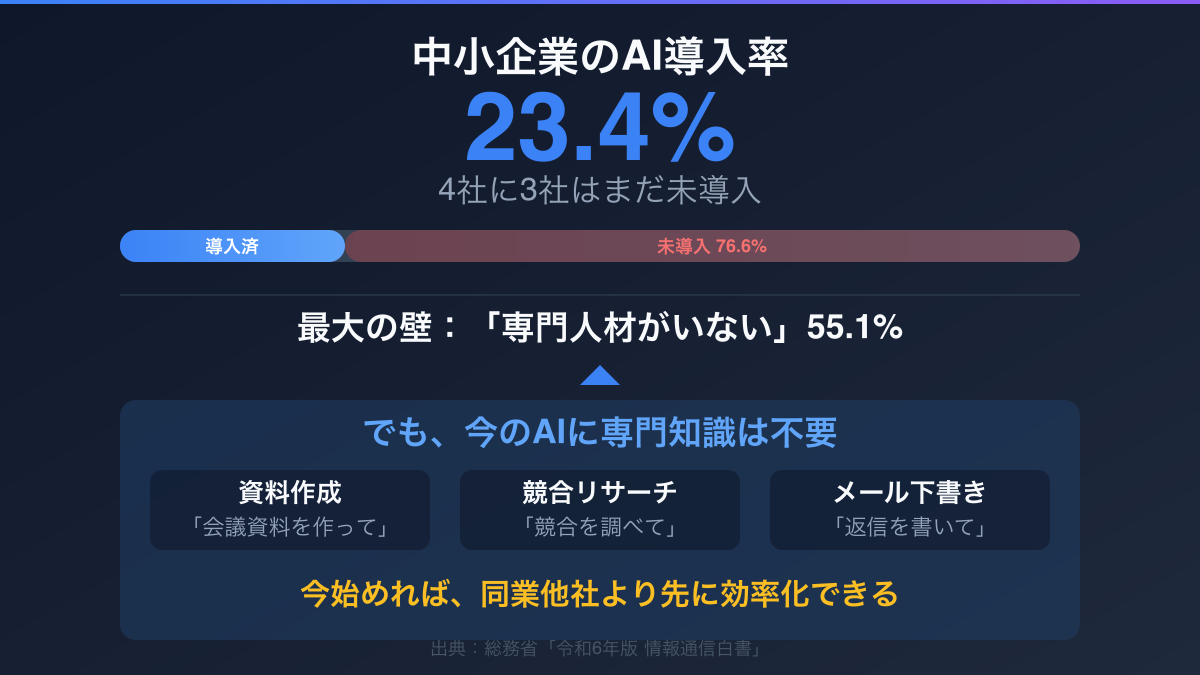
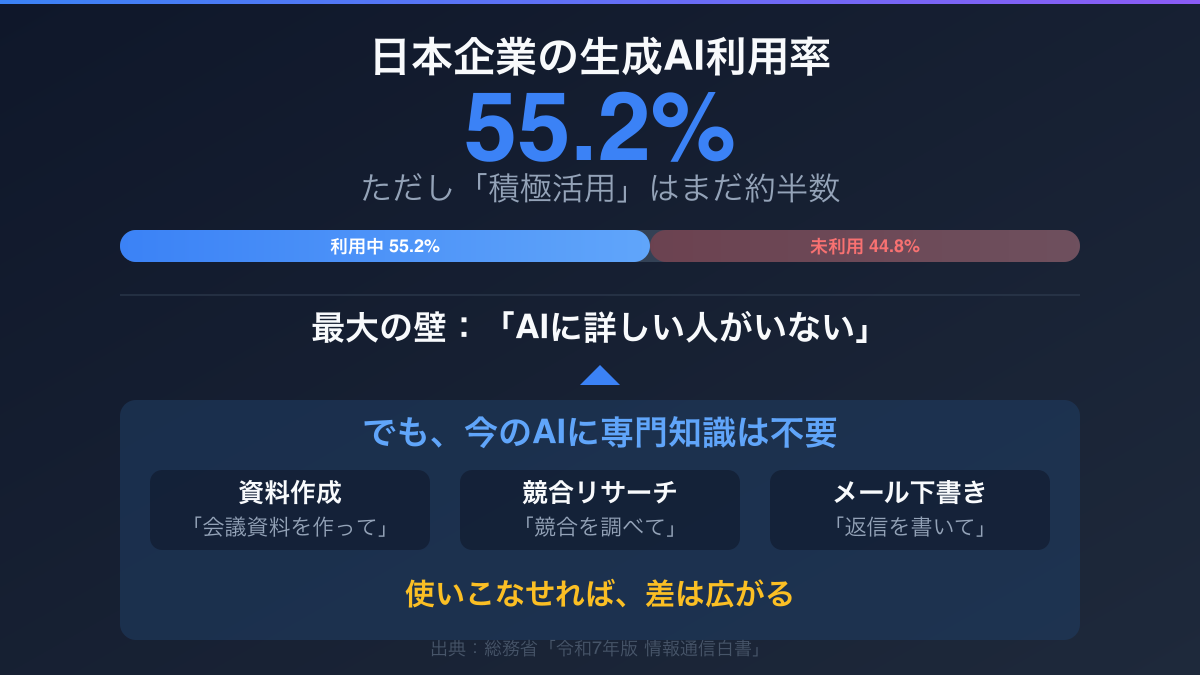
fix: 古いデータを最新に修正（X投稿テキスト・画像）
- AI利用率: 23.4%→55.2%（令和7年版情報通信白書）
- X投稿id:36テキスト・画像を最新データに更新

diff --git a/tasks/article-20260314-one-person-ai-team.html b/tasks/article-20260314-one-person-ai-team.html
@@ -7,7 +7,7 @@
 
 <p>「人が採れない」「求人を出しても応募が来ない」──中小企業の経営者なら、一度はこの壁にぶつかったことがあるのではないでしょうか。</p>
 
-<p>実は2024年、<strong>人手不足を原因とする倒産は過去最多の427件</strong>を記録しました（帝国データバンク調べ）。しかも、その<strong>77%が従業員10人未満</strong>の小規模企業です。つまり「うちは小さいから大丈夫」ではなく、<strong>小さいからこそ危ない</strong>のが今の現実です。</p>
+<p>実は2025年、<strong>人手不足を原因とする倒産は過去最多の427件</strong>を記録しました（帝国データバンク調べ）。前年（342件）から24.9%増で、3年連続の過去最多更新です。しかも、その大半が従業員10人未満の小規模企業です。つまり「うちは小さいから大丈夫」ではなく、<strong>小さいからこそ危ない</strong>のが今の現実です。</p>
 
 <p>この記事では、「人を雇う」でも「我慢して回す」でもない<strong>第3の選択肢──AIツールで「ひとりチーム」を作る方法</strong>を具体的に解説します。正社員1人分の年間コスト（約1,200万円）に対して、AIツールは年間5〜18万円。この圧倒的なコスト差を、経営にどう活かすかがポイントです。</p>
 
@@ -146,7 +146,7 @@
 </table>
 </div>
 
-<p>リクルートの調査では、中途採用1件あたりの平均コストは<strong>約103.3万円</strong>（2023年度実績）。さらに、せっかく採用しても<strong>3年以内の離職率は約3割</strong>というデータもあります。採用→教育→退職→再採用のサイクルは、中小企業にとって非常に大きな負担です。</p>
+<p>リクルートの調査では、中途採用1件あたりの平均コストは<strong>約103.3万円</strong>（就職みらい研究所「就職白書2020」）。さらに、せっかく採用しても<strong>3年以内の離職率は約3割</strong>というデータもあります。採用→教育→退職→再採用のサイクルは、中小企業にとって非常に大きな負担です。</p>
 
 <p>さらに見落としがちなのが<strong>「見えないコスト」</strong>です。新入社員が戦力になるまでの教育期間（一般的に3〜6ヶ月）は、教える側の社員の生産性も下がります。中小企業では「教える人」と「教わる人」が同じ部署にいることが多いため、この影響は大企業以上に大きいのが現実です。</p>
 
@@ -176,8 +176,8 @@
     </tr>
     <tr>
       <td>Canva Pro（デザイン）</td>
-      <td>約1,000円</td>
-      <td>約1.2万円</td>
+      <td>約1,180円</td>
+      <td>約1.4万円</td>
     </tr>
     <tr>
       <td>Zapier Starter（自動化）</td>
@@ -203,7 +203,7 @@
 
 <p>ここで見落としがちなのが、<strong>「AIを導入しないことで失うもの」</strong>です。</p>
 
-<p>パナソニック コネクトは、AIアシスタント「ConnectAI」を全社導入した結果、<strong>年間18.6万時間の業務時間を削減</strong>しました。これは約90人分の年間労働時間に相当します。大企業の事例ではありますが、「AIで効率化しなかった場合のコスト」を具体的に示す数字として参考になります。</p>
+<p>パナソニック コネクトは、AIアシスタント「ConnectAI」を全社導入した結果、2024年には<strong>年間44.8万時間の業務時間を削減</strong>しました（前年の18.6万時間から2.4倍に拡大）。これは約215人分の年間労働時間に相当します。大企業の事例ではありますが、「AIで効率化しなかった場合のコスト」を具体的に示す数字として参考になります。</p>
 
 <p>中小企業の場合、経営者自身がこれらの業務を兼任しているケースも多いでしょう。「社長が毎日メール返信と資料作成に追われて、営業や戦略立案に時間を割けない」──これはまさに「何もしないコスト」が発生している状態です。</p>
 
@@ -217,7 +217,7 @@
 
 <p>これらの業務をAIで半分にできるだけで、<strong>年間約250時間</strong>──つまり<strong>約1ヶ月半分の営業日</strong>が浮く計算です。その時間を営業や商品開発に使えたら？　この差は、年数が経つほど広がっていきます。</p>
 
-<p>総務省の調査によると、<strong>日本企業のAI導入率は23.4%</strong>（2024年）。アメリカの50.4%と比べると大きな差があります。そして導入しない最大の理由は「AIに詳しい人材がいない」（55.1%）。しかし今のAIツールは、<strong>専門知識がなくても使える</strong>レベルまで進化しています。「人材がいないから導入できない」ではなく、「人材がいないからこそAIを活用する」──この発想の転換が求められています。</p>
+<p>総務省の調査によると、<strong>日本企業の生成AI利用率は55.2%</strong>（令和7年版 情報通信白書）。前年の23.4%から急速に拡大しましたが、「積極的に活用する」と回答した企業はまだ約半数にとどまっています。そして導入しない理由として依然として多いのが「AIに詳しい人材がいない」という声です。しかし今のAIツールは、<strong>専門知識がなくても使える</strong>レベルまで進化しています。「人材がいないから導入できない」ではなく、「人材がいないからこそAIを活用する」──この発想の転換が求められています。</p>
 
 <figure>
   <img src="https://www.oishillc.jp/wp-content/themes/oishi-ai/assets/blog/20260314-one-person-ai-team/img-02-cost-comparison.webp"
@@ -352,7 +352,7 @@
 
 <p>AI機能を使えば、「この写真の背景を白にして」「この画像をポスターサイズに拡大して」「このテキストに合うイラストを生成して」といった編集も一瞬です。Instagram投稿、YouTube サムネイル、営業資料、名刺、イベントチラシなど、幅広い用途に対応しています。以前なら外注で数万円かかっていたデザイン作業が、月額1,000円で無制限にできるようになります。</p>
 
-<p><strong>料金</strong>：無料プランあり / Pro 約1,000円/月</p>
+<p><strong>料金</strong>：無料プランあり / Pro 月払い1,180円/月（年払い換算 約691円/月）</p>
 
 <h3>Zapier</h3>
 
@@ -616,10 +616,10 @@
 <h2 id="references">参照元</h2>
 
 <ol>
-  <li><a href="https://www.tdb.co.jp/report/economic/hitodebusoku/" target="_blank" rel="noopener noreferrer">帝国データバンク「人手不足倒産の動向調査（2024年）」</a></li>
-  <li><a href="https://www.soumu.go.jp/johotsusintokei/whitepaper/" target="_blank" rel="noopener noreferrer">総務省「令和6年版 情報通信白書」</a></li>
-  <li><a href="https://www.recruit.co.jp/newsroom/" target="_blank" rel="noopener noreferrer">リクルート「中途採用コスト調査（2023年度）」</a></li>
-  <li><a href="https://news.panasonic.com/jp/" target="_blank" rel="noopener noreferrer">パナソニック コネクト「ConnectAI 導入効果レポート」</a></li>
+  <li><a href="https://www.tdb.co.jp/report/economic/hitodebusoku/" target="_blank" rel="noopener noreferrer">帝国データバンク「人手不足倒産の動向調査（2025年）」</a></li>
+  <li><a href="https://www.soumu.go.jp/johotsusintokei/whitepaper/ja/r07/html/nd112220.html" target="_blank" rel="noopener noreferrer">総務省「令和7年版 情報通信白書」</a></li>
+  <li><a href="https://www.recruit.co.jp/newsroom/" target="_blank" rel="noopener noreferrer">リクルート 就職みらい研究所「就職白書2020」（中途採用コスト）</a></li>
+  <li><a href="https://news.panasonic.com/jp/press/jn250707-2" target="_blank" rel="noopener noreferrer">パナソニック コネクト「ConnectAI 導入効果レポート（2024年実績）」</a></li>
   <li><a href="https://corp.kaonavi.jp/" target="_blank" rel="noopener noreferrer">カオナビ「カスタマーサポートAI活用事例」</a></li>
   <li><a href="https://www.anthropic.com/claude" target="_blank" rel="noopener noreferrer">Anthropic「Claude」公式サイト</a></li>
   <li><a href="https://openai.com/chatgpt" target="_blank" rel="noopener noreferrer">OpenAI「ChatGPT」公式サイト</a></li>
